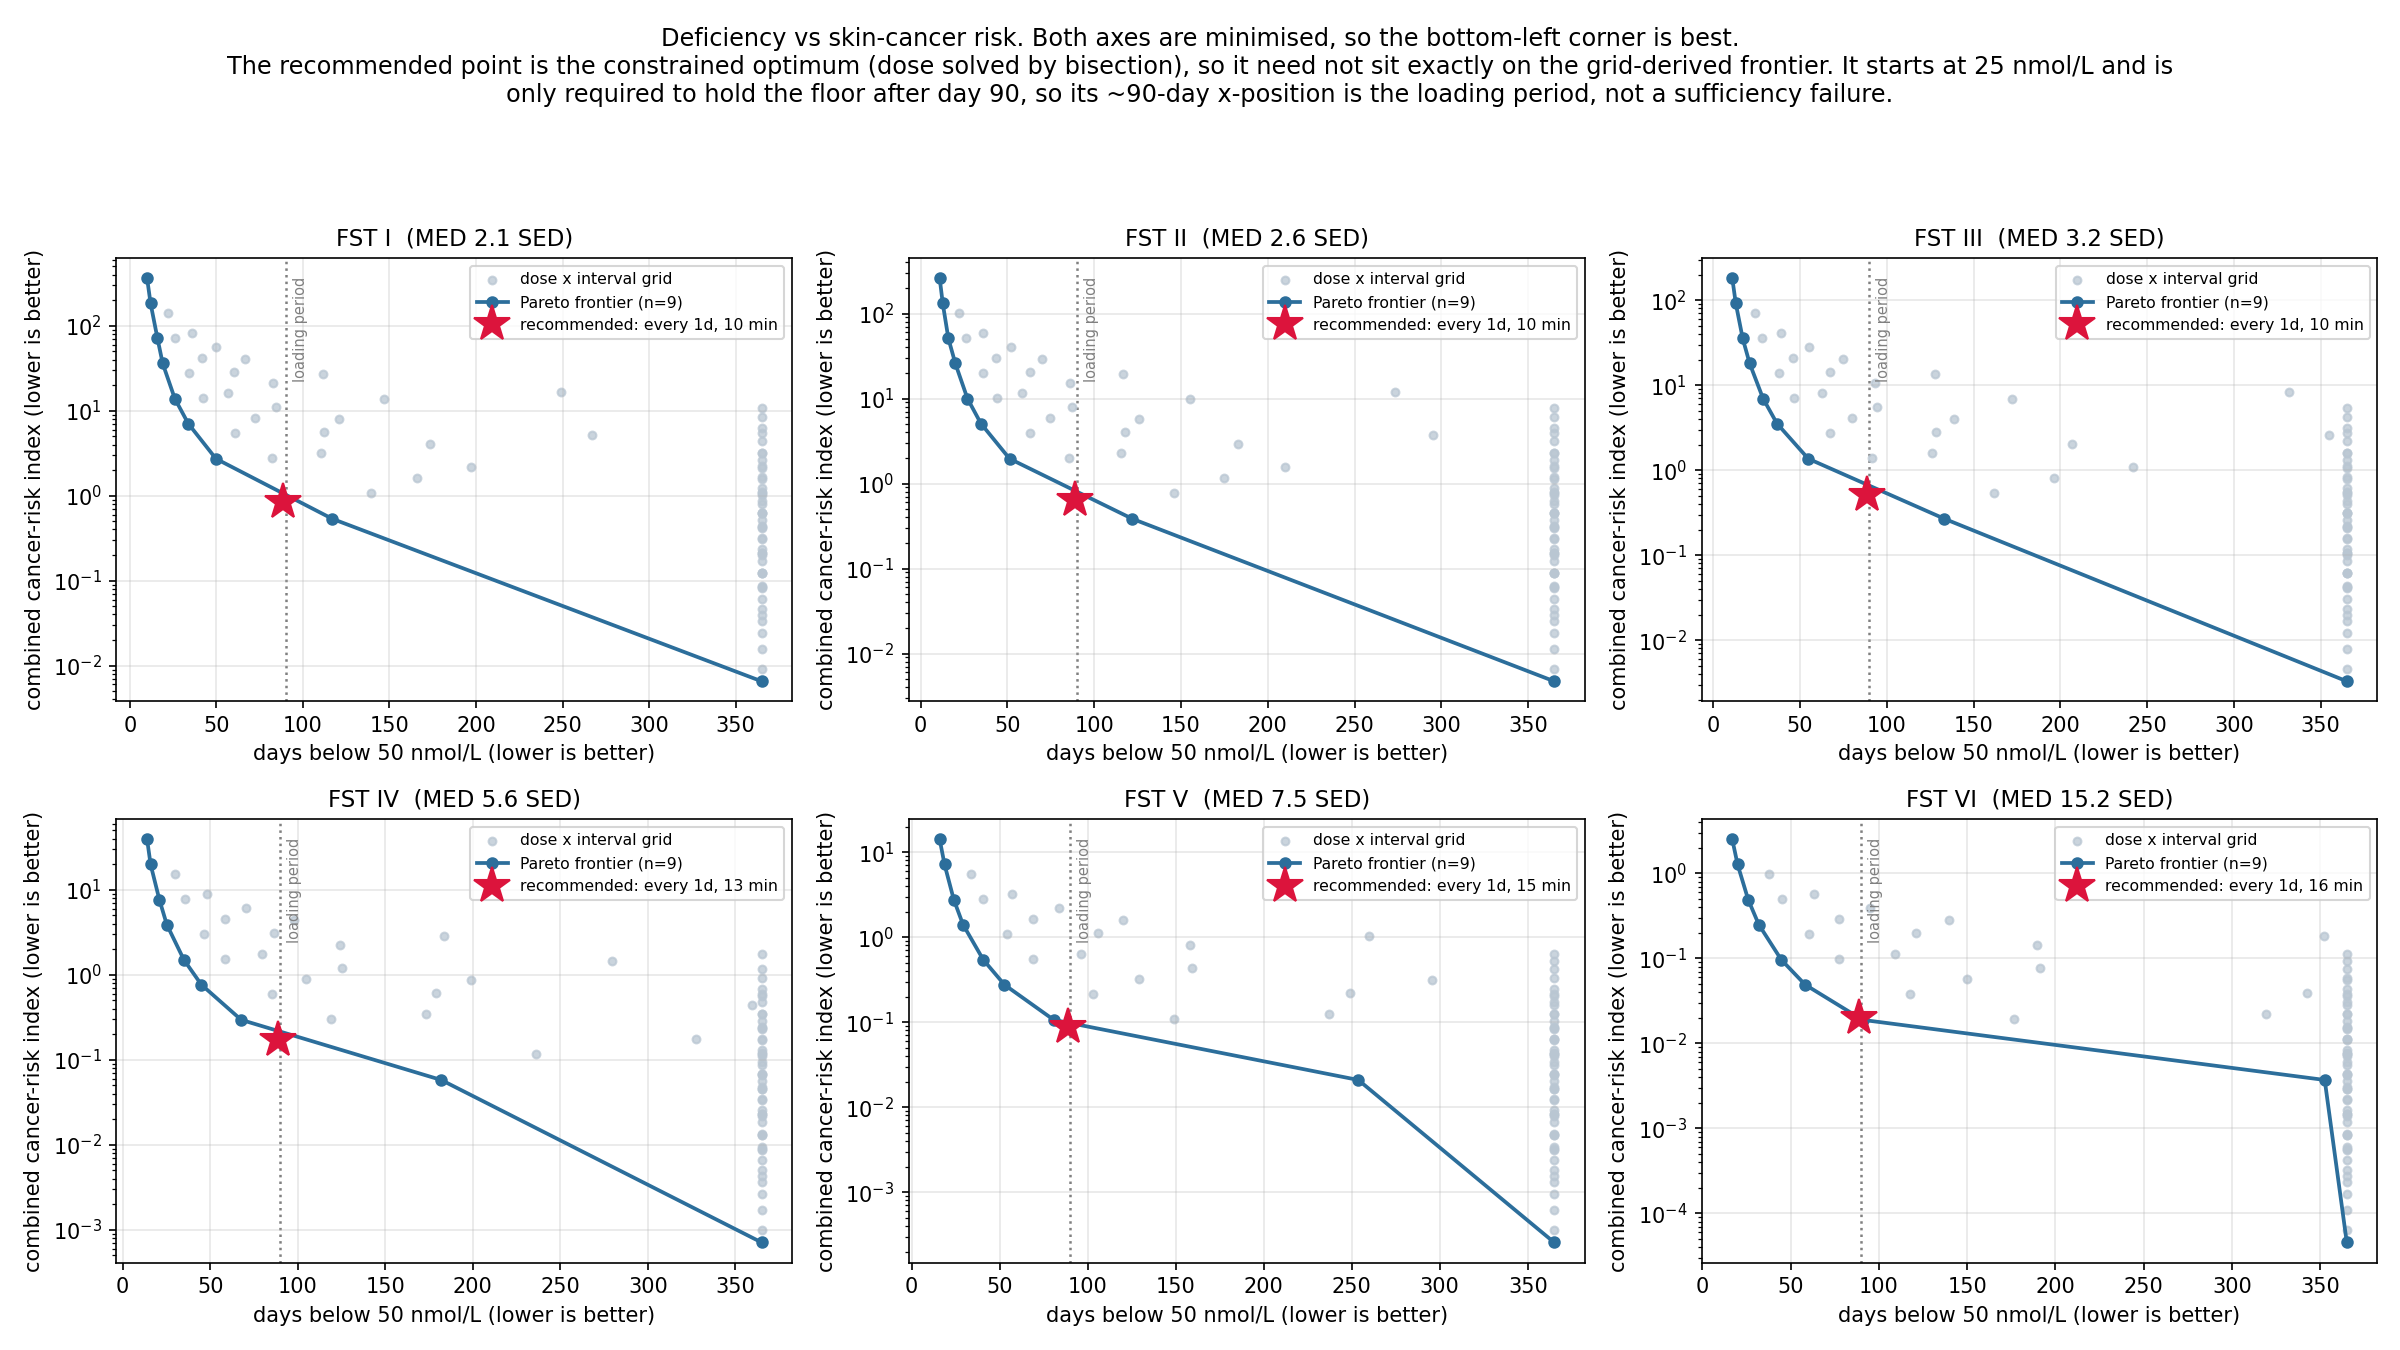
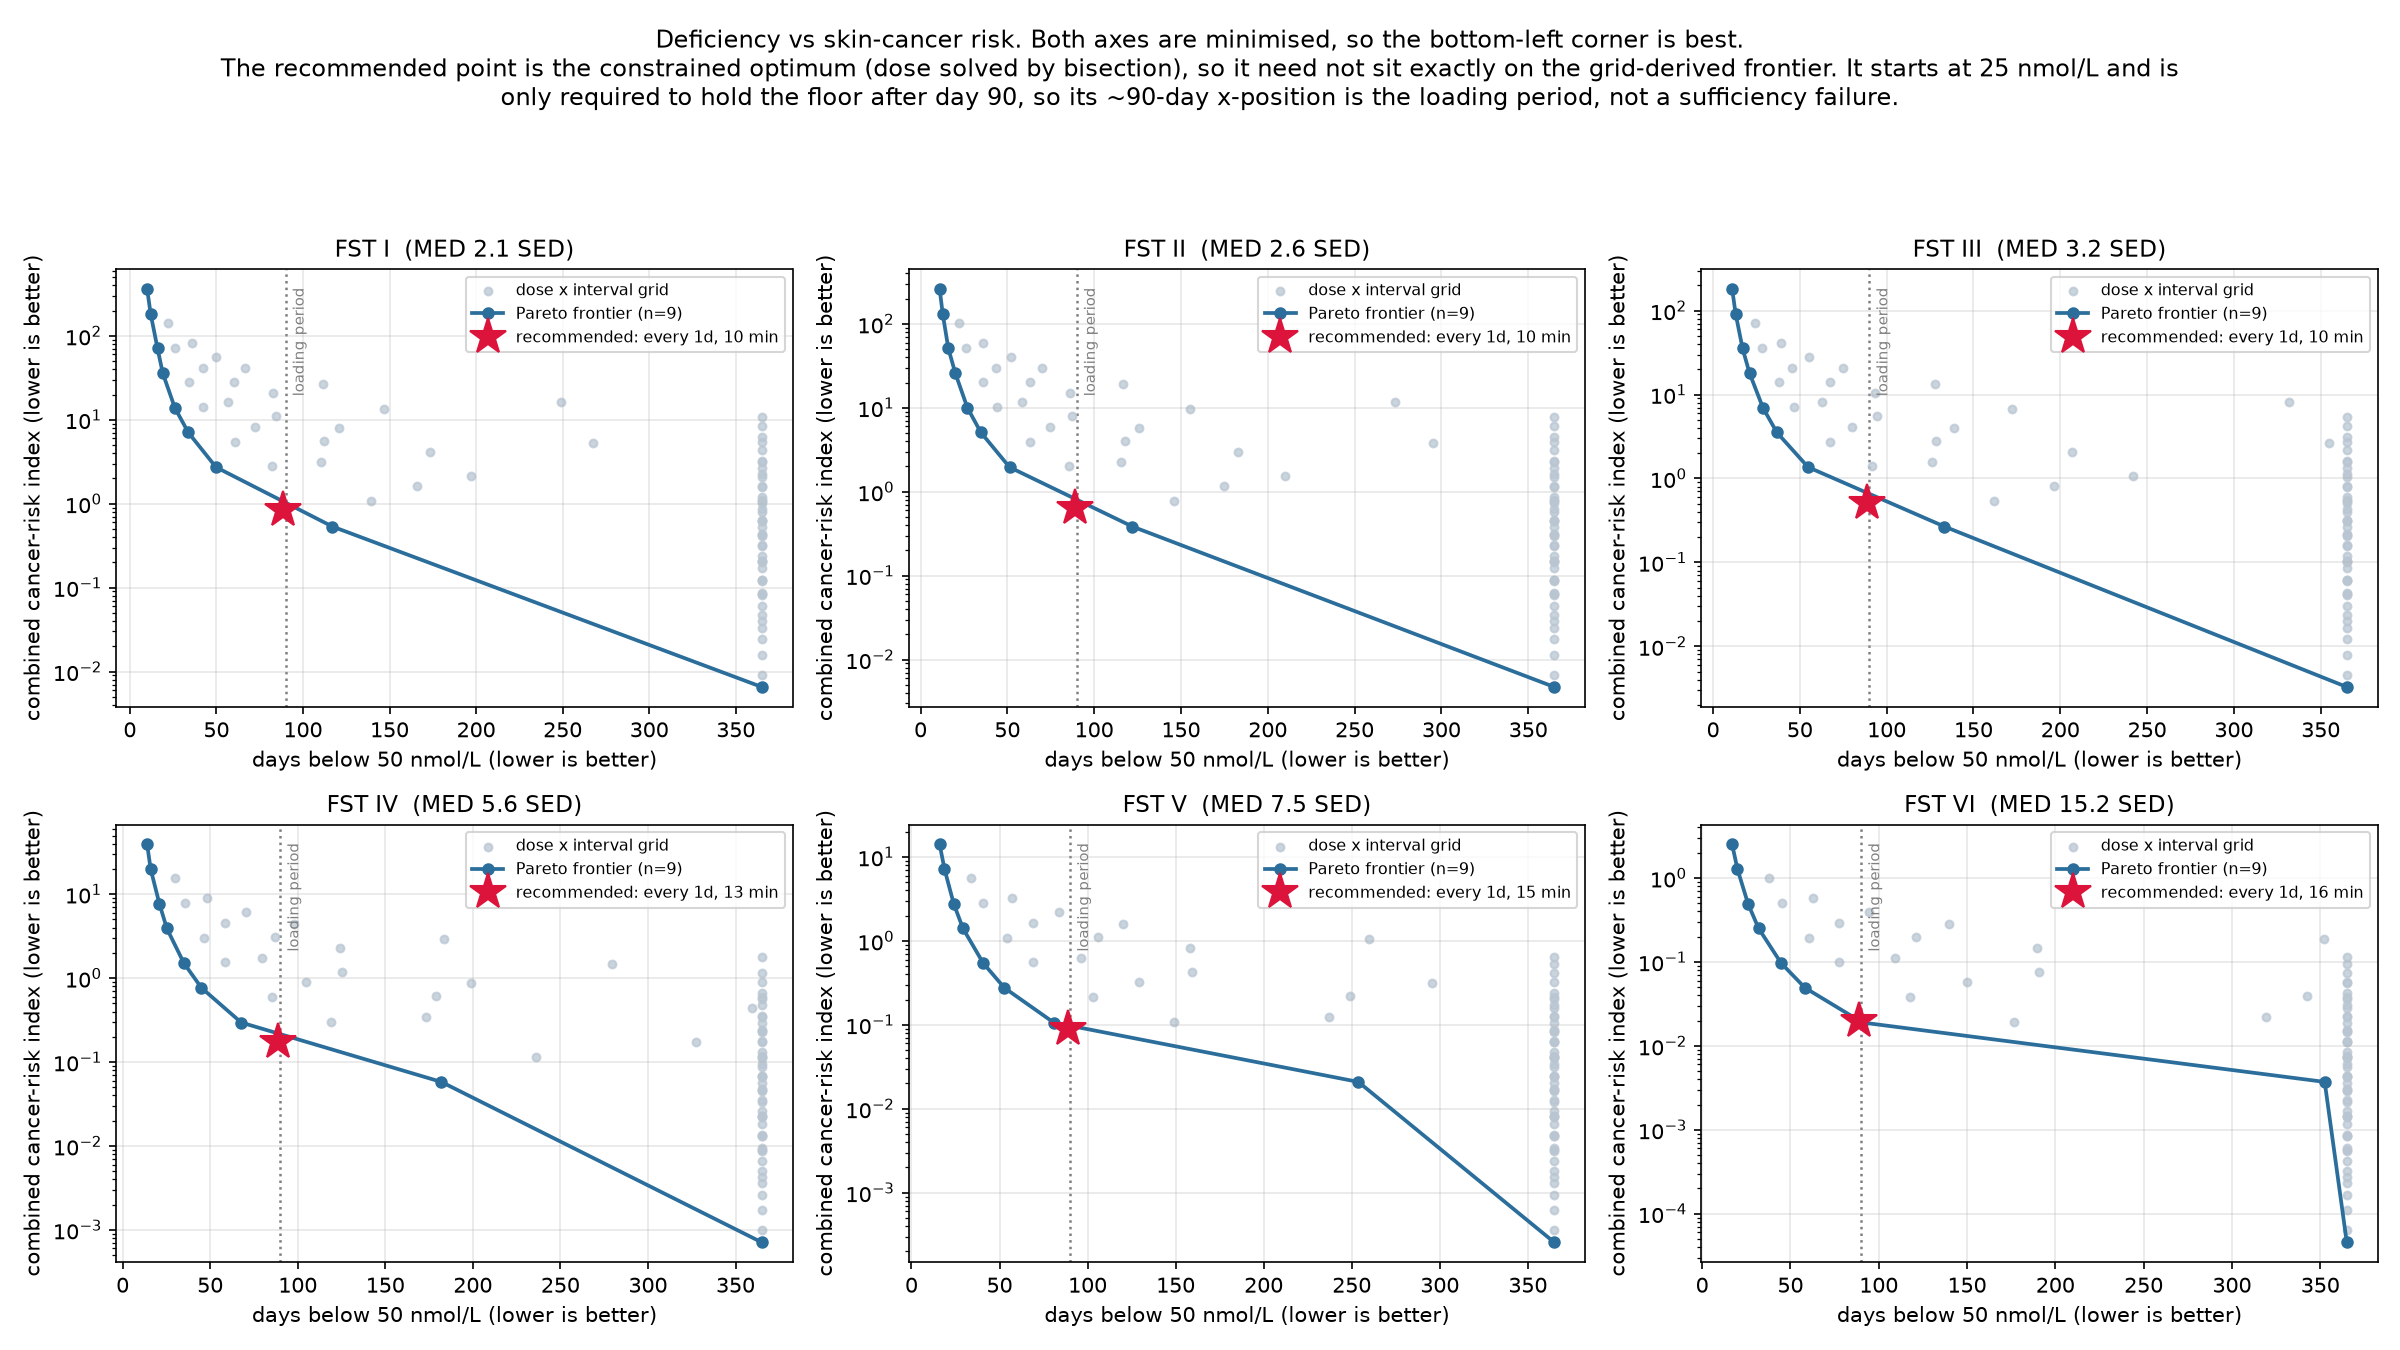
update gitignore and finished pipeline

diff --git a/RESULTS.md b/RESULTS.md
@@ -711,10 +711,10 @@ ANALYSIS N: joint timing + dose optimisation
   FST    N   spacing       family  gamma      risk  vs unif%   totSED  t->suff
   ----------------------------------------------------------------------------------
     2  104   uniform    two_phase   1.00    1.9431       0.0     94.5      84d
-    2  104      free  exponential   1.35    1.5937      18.0     97.6      83d
+    2  104      free    two_phase   1.15    1.6137      17.0     94.2      84d
 
     2  146   uniform    two_phase   1.00    0.9943       0.0     83.4      85d
-    2  146      free  exponential   1.38    0.8679      12.7     87.2      85d
+    2  146      free  exponential   1.38    0.8678      12.7     87.2      85d
 
     2  183   uniform    two_phase   1.00    0.7333       0.0     79.8      78d
     2  183      free    two_phase   1.28    0.6060      17.4     81.8      85d
@@ -723,16 +723,16 @@ ANALYSIS N: joint timing + dose optimisation
     2  260      free    two_phase   1.55    0.3637       6.8     76.8      86d
 
     3  104   uniform    two_phase   1.00    1.6092       0.0    101.5      84d
-    3  104      free    two_phase   1.32    1.2671      21.3    103.1      83d
+    3  104      free    two_phase   1.32    1.2688      21.2    103.2      83d
 
     3  146   uniform    two_phase   1.00    0.8110       0.0     89.1      85d
-    3  146      free    two_phase   1.36    0.6986      13.9     92.5      83d
+    3  146      free    two_phase   1.36    0.6987      13.8     92.5      83d
 
-    3  183   uniform    two_phase   1.00    0.5498       0.0     84.1      88d
-    3  183      free    two_phase   1.28    0.4945      10.1     87.5      88d
+    3  183   uniform    two_phase   1.00    0.5605       0.0     85.3      88d
+    3  183      free  exponential   1.31    0.4953      11.6     87.7      85d
 
     3  260   uniform    two_phase   1.00    0.3165       0.0     77.8      87d
-    3  260      free  exponential   1.14    0.3291      -4.0     83.3      86d
+    3  260      free  exponential   1.13    0.3273      -3.4     83.2      87d
 
     5  104   uniform    two_phase   1.00    0.3914       0.0    159.2      84d
     5  104      free    two_phase   1.33    0.2716      30.6    158.2      82d
@@ -747,14 +747,14 @@ ANALYSIS N: joint timing + dose optimisation
     5  260      free  exponential   1.29    0.0518       7.3    115.3      87d
 
   Free spacing vs uniform spacing, 12 operating points:
-    median gain +14.71%   best +30.62%   worst -3.99%
-    gamma chosen: median 1.33 (1.00 = uniform), range 1.14-1.55
+    median gain +14.71%   best +30.62%   worst -3.40%
+    gamma chosen: median 1.31 (1.00 = uniform), range 1.13-1.55
 
     A negative entry is not a real loss: gamma = 1 is
     inside the search bounds, so the free arm can reproduce
     the control exactly and cannot truly do worse. The worst
-    entry (-4.0%) therefore bounds solver noise, and
-    gains below roughly 4% should not be read as real.
+    entry (-3.4%) therefore bounds solver noise, and
+    gains below roughly 3% should not be read as real.
 
   Mechanism. Free spacing does NOT win by lowering cumulative dose
   -- total SED is usually slightly HIGHER. It wins by lowering the
@@ -902,7 +902,7 @@ A. LOWEST-RISK SCHEDULE THAT HOLDS SUFFICIENCY, BY SKIN TYPE
     5    7.5  minutes        1d      365      0.46        15      6    64.1    1.95    0.0040    0.0881
     6   15.2  minutes        1d      365      0.51        16      3    64.1    1.18    0.0003    0.0198
 
-  Saved C:\Users\Ahaan\sunresearch\Sun-Exposure-Intervals\tables\risk_aware_schedule_by_fst.csv
+  Saved /mnt/c/Users/Ahaan/sunresearch/Sun-Exposure-Intervals/tables/risk_aware_schedule_by_fst.csv
 
   All skin types land on the shortest interval on the grid (1d). This is not a solver artefact:
   the sufficiency floor eliminates the long intervals outright (they cannot reach the
@@ -917,7 +917,7 @@ A. LOWEST-RISK SCHEDULE THAT HOLDS SUFFICIENCY, BY SKIN TYPE
   anchored by Elwood & Jopson. Interval and minutes columns do not depend on it.
   Minutes carry at least +/-40% geometric uncertainty (gap 26) and assume the UV index
   holds at 6 for the whole session.
-Saved C:\Users\Ahaan\sunresearch\Sun-Exposure-Intervals\figs\deficiency_risk_frontier.png
+Saved /mnt/c/Users/Ahaan/sunresearch/Sun-Exposure-Intervals/figs/deficiency_risk_frontier.png
 
 ```
 
